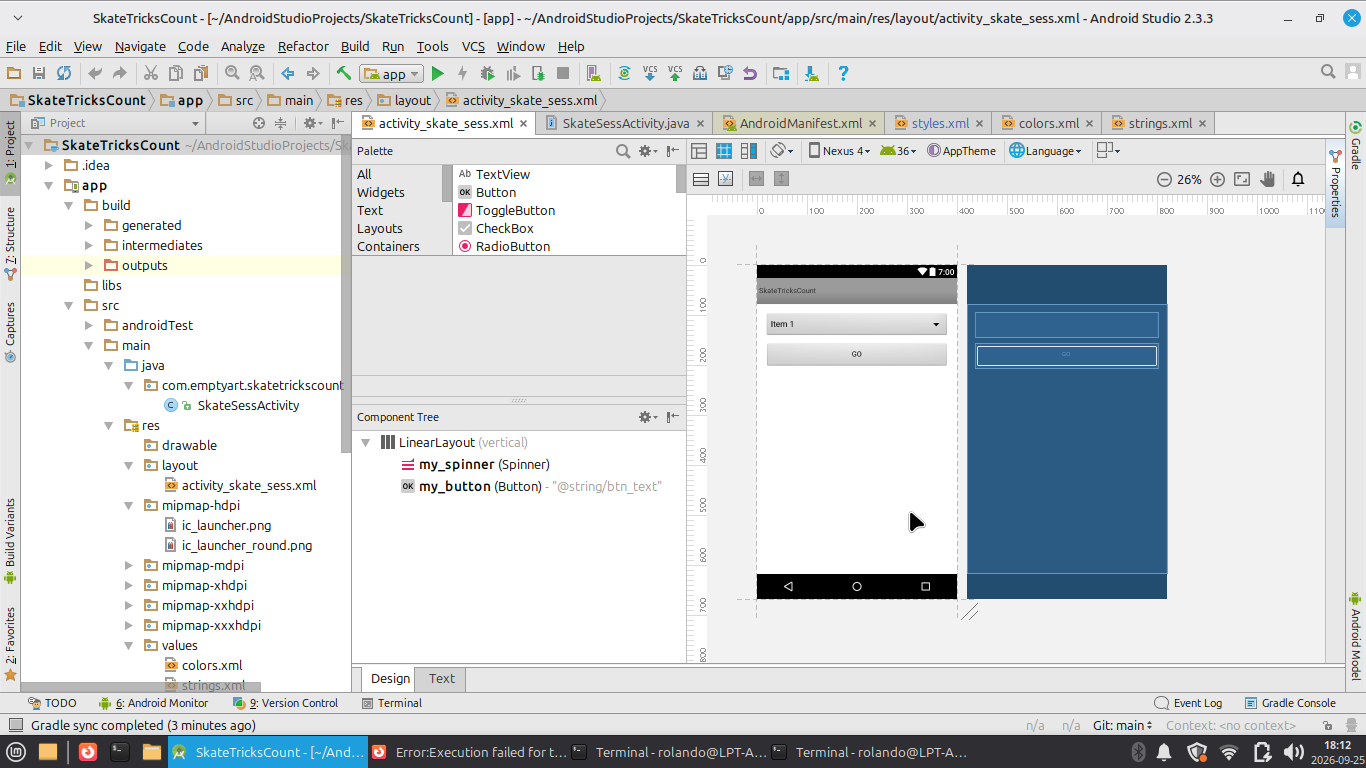
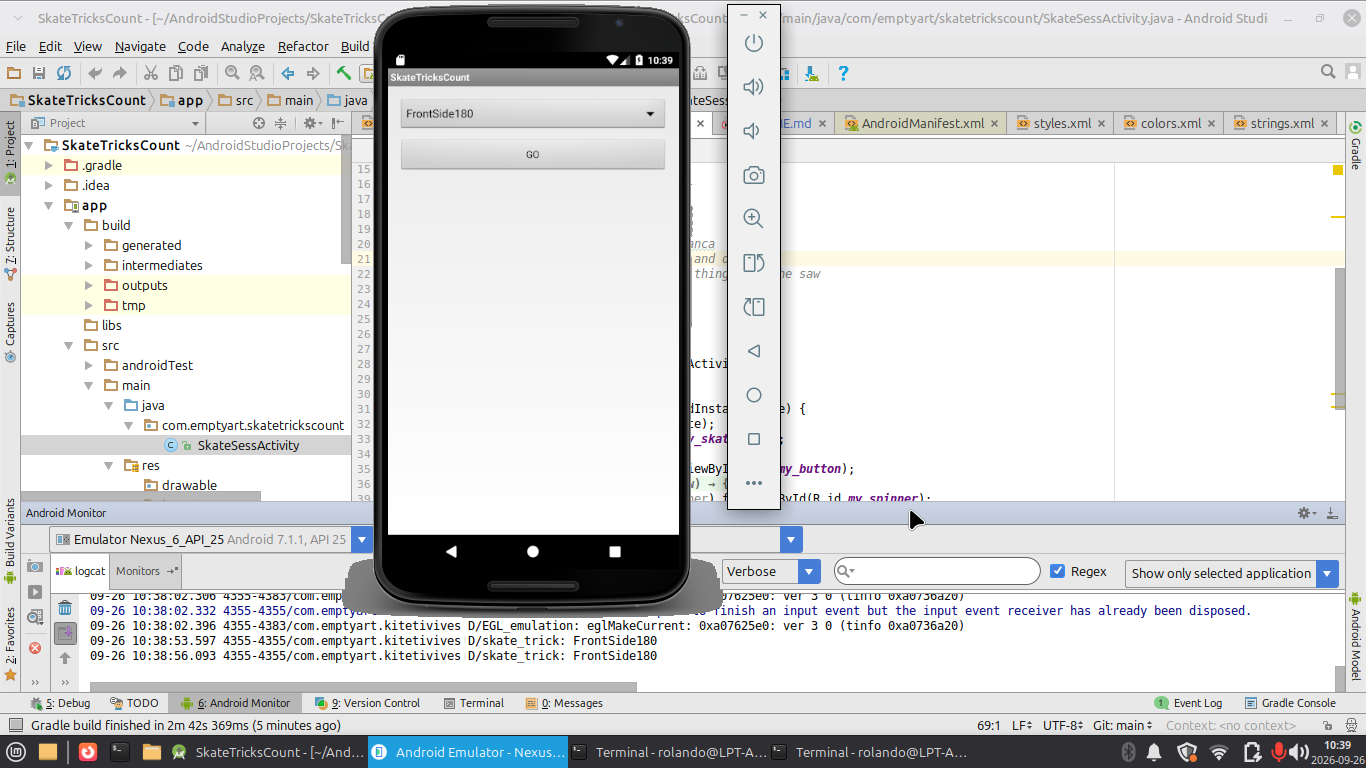
i want to go back to my little green shack ...

diff --git a/README.md b/README.md
@@ -7,5 +7,5 @@ increasing the skater intelligence if they figure it out before
 
 Help me to buy my OneWheel https://onewheel.com/
 
-[![Misty Ella Fitzgerald.... ](https://raw.githubusercontent.com/rgarro/SkateTricksCount/refs/heads/main/screen.png)
+[![Art Peppeer Dub .... ](https://raw.githubusercontent.com/rgarro/SkateTricksCount/refs/heads/main/screen.png)
 
